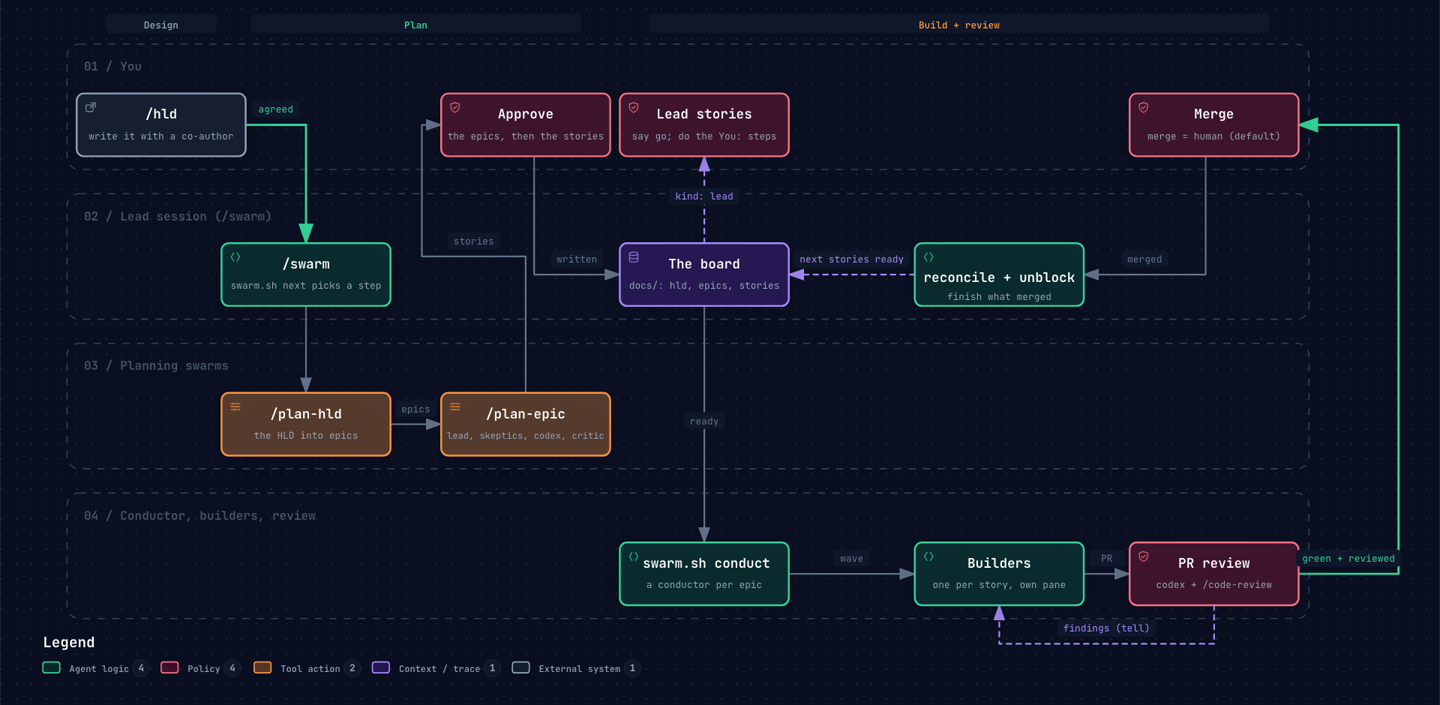
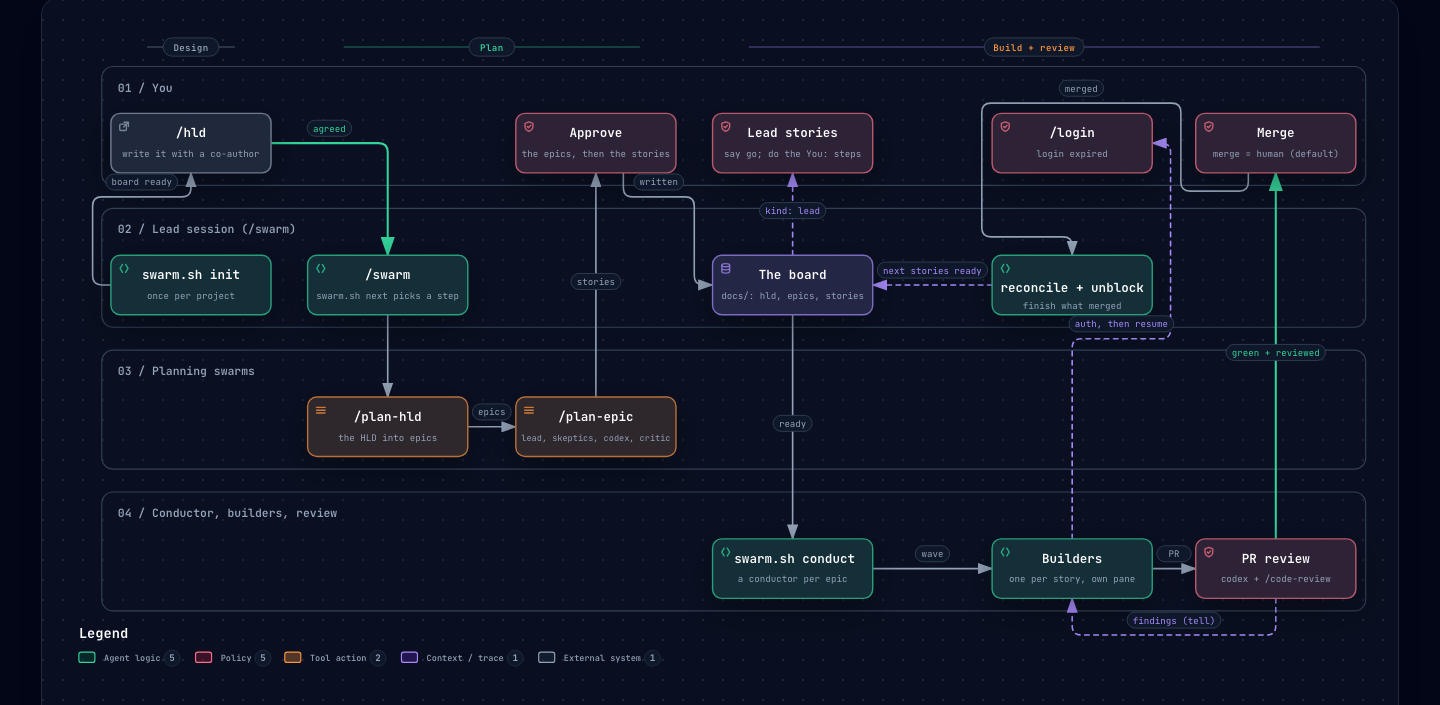
Refresh docs for 0.14: flow diagram source, method and README wording (#86)
* Refresh docs for 0.14: flow diagram source, method and README wording

* Render the flow diagram with swarm.sh init and the auth stop

---------

diff --git a/docs/method.md b/docs/method.md
@@ -211,7 +211,7 @@ is waited on, said once on stderr. At the timeout `wait` prints the last state a
 it does at once when herdr's wait fails other than by timing out and the session has not settled.
 A codex agent, or one with no recorded session, is waited on through herdr's status. A builder
 whose session goes idle while its story is `ready` and has no PR (for an epic's story with `pr_per =
-epic`, before `story/<slug>` is pushed) has stopped early, perhaps on an API error, and nothing else would wake it. `wait` tells it
+epic`, before `story/<slug>` is pushed) has stopped early, perhaps on a failed request, and nothing else would wake it. `wait` tells it
 why ("you are idle and story/<slug> has no PR") and waits again, up to three times. Nudges are at
 least a slice apart unless the session turns busy in between. If herdr cannot deliver a nudge,
 `wait` stops there and returns idle, and logs nothing for it. Only code, docs and chore stories are

diff --git a/README.md b/README.md
@@ -7,7 +7,7 @@ swarm-dev runs a team of Claude Code agents that build software while you watch.
 with one agent. Others plan it, try to break the plan, and build it in parallel, each in its own
 terminal pane. The run stops whenever a decision is yours.
 
-![swarm.sh dash --watch on a demo project, 160 columns wide: what needs you and the epics on the left, recent on the right](docs/assets/dash.gif)
+![swarm.sh dash --watch on a demo project, 160 columns wide: what needs you and the epics on the left, recent on the right, a status bar below](docs/assets/dash.gif)
 
 ## How it works
 
